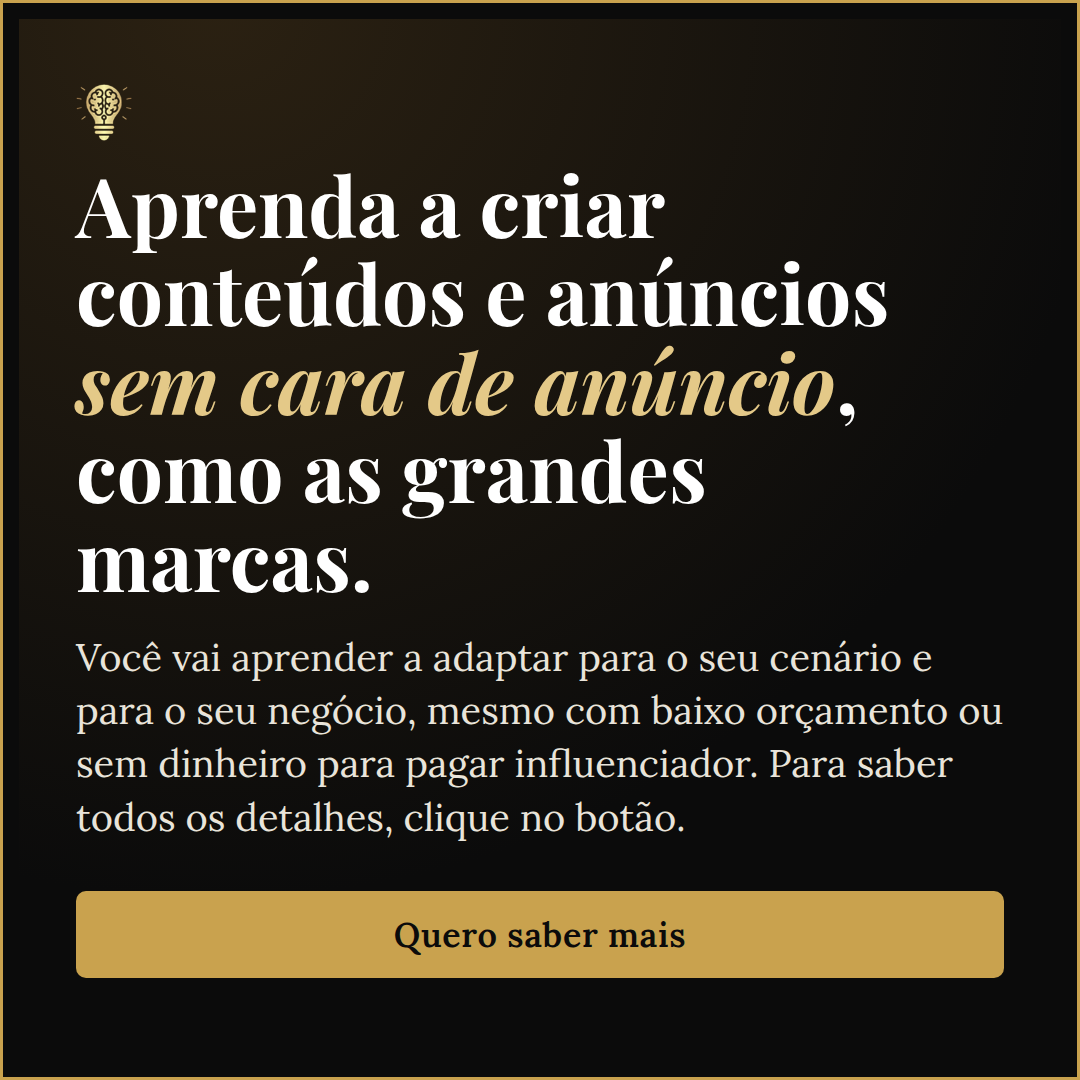
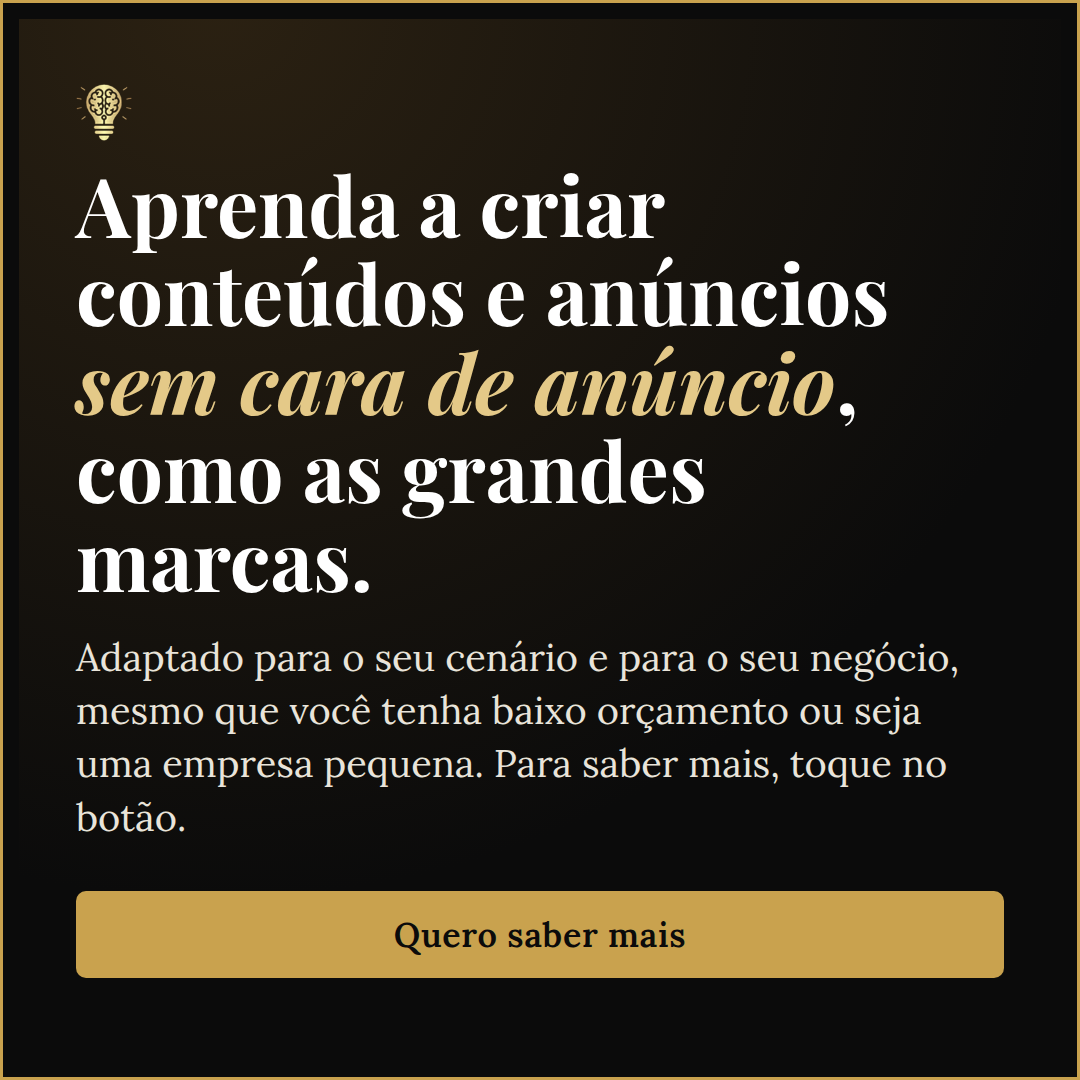
Carrossel Recria Ads: ajuste dos cards 4 e 5
Claude-Session: https://claude.ai/code/session_01DxpPKgzfVt8WYQSkZW1Msu

Changed region(s): [[0.0611, 0.5806, 0.9472, 0.7944]]

diff --git a/recria/criativos-estaticos/gerar-recria-ads.js b/recria/criativos-estaticos/gerar-recria-ads.js
@@ -10,8 +10,8 @@ const ITEMS=[
 ["ads-2a-historia","","Se você tem um negócio, eu preciso te mostrar uma coisa que <em>pode estar te fazendo perder dinheiro</em>.","Lá atrás, ela me fez quebrar dois negócios. Depois que eu ajustei um pequeno detalhe, tudo mudou.","","","seta1"],
 ["ads-2b-revelacao","","Percebeu? <em>Parabéns, você acabou de cair no anúncio.</em>","Eu retive a sua atenção, gerei identificação e fiz você arrastar para o lado para continuar lendo, mesmo sem me conhecer. E sabe por quê?","","","seta"],
 ["ads-2c-porque","","Todo mundo pula anúncio <em>com cara de anúncio</em>, mas para por uma boa história.","Uma história bem amarrada aos interesses e desejos de quem lê. É a neurociência: o cérebro presta atenção no que fala dele, do que ele quer e do que o interessa. E sabe qual é o ponto mais importante disso?","","","seta"],
-["ads-2d-gancho","","Você vai aprender a parar de criar conteúdo com <em>cara de vendedor chato</em>.","Aquele que não agrega, não desperta desejo, só joga o preço na cara da pessoa e te faz perder tempo com um anúncio que ninguém vai comprar no fim das contas. Se você está pronto para criar conteúdo e vender até quando não está vendendo, arraste para o lado.","","","seta"],
-["ads-2e-oferta","","Aprenda a criar conteúdos e anúncios <em>sem cara de anúncio</em>, como as grandes marcas.","Você vai aprender a adaptar para o seu cenário e para o seu negócio, mesmo com baixo orçamento ou sem dinheiro para pagar influenciador. Para saber todos os detalhes, clique no botão.","","Quero saber mais",""],
+["ads-2d-gancho","","Você vai aprender a parar de criar conteúdo com <em>cara de vendedor chato</em>.","Aquele que não agrega, não desperta desejo, só joga o preço na cara da pessoa e te faz perder tempo com um anúncio que ninguém vai comprar no fim das contas. Se você está pronto para criar conteúdo e anúncio e vender até quando não está vendendo… então você precisa saber disso.","","","seta"],
+["ads-2e-oferta","","Aprenda a criar conteúdos e anúncios <em>sem cara de anúncio</em>, como as grandes marcas.","Adaptado para o seu cenário e para o seu negócio, mesmo que você tenha baixo orçamento ou seja uma empresa pequena. Para saber mais, toque no botão.","","Quero saber mais",""],
 ["ads-3-prova","Recria Ads","Aprenda a criar conteúdos que <em>atraem, engajam e vendem</em>. Com leveza.","Olha esse carrossel do meu perfil de yoga: atraí as pessoas, elas se identificaram e comentaram “eu quero”. No direct, continuei a conversa com a oferta do meu curso e vendi. Tudo configurado de forma automatizada. Você também quer aprender?","","Quero saber mais","prova"]
 ];
 function css(f){return `
